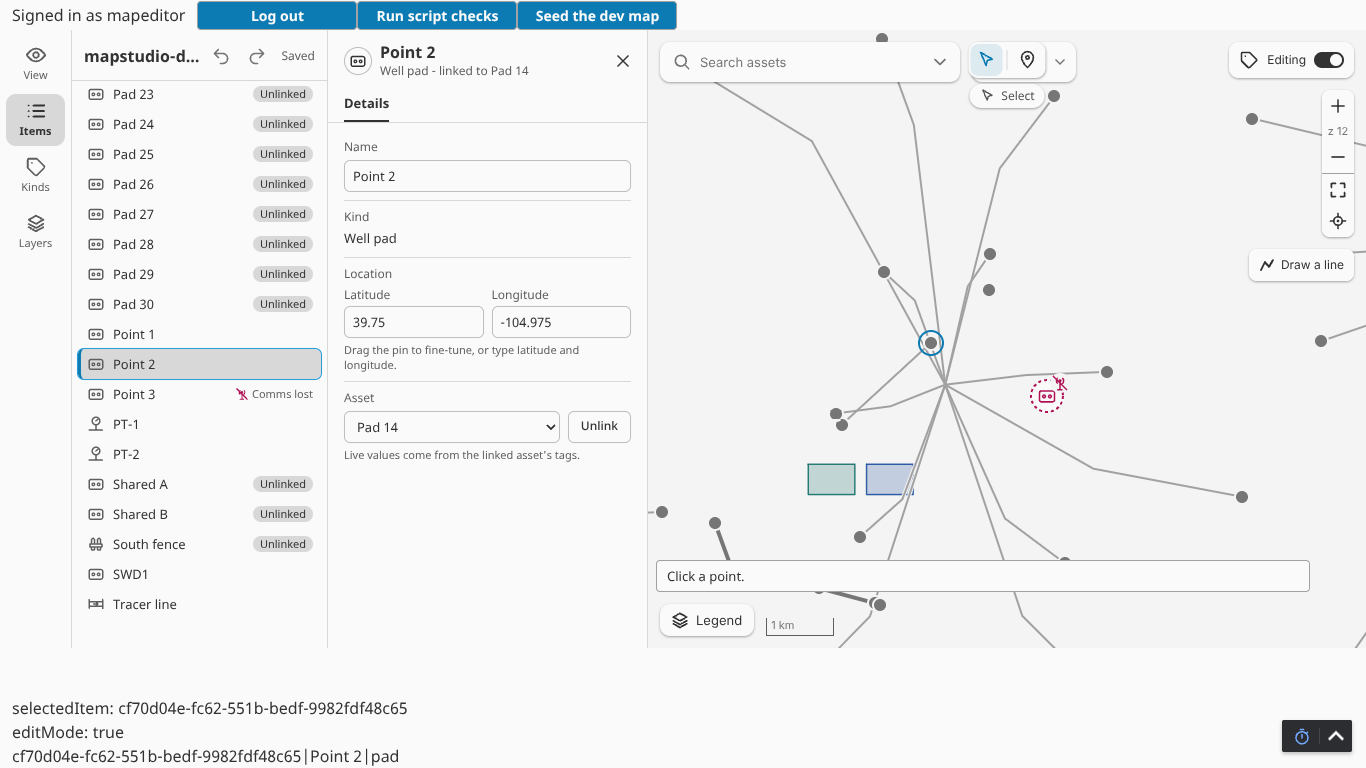
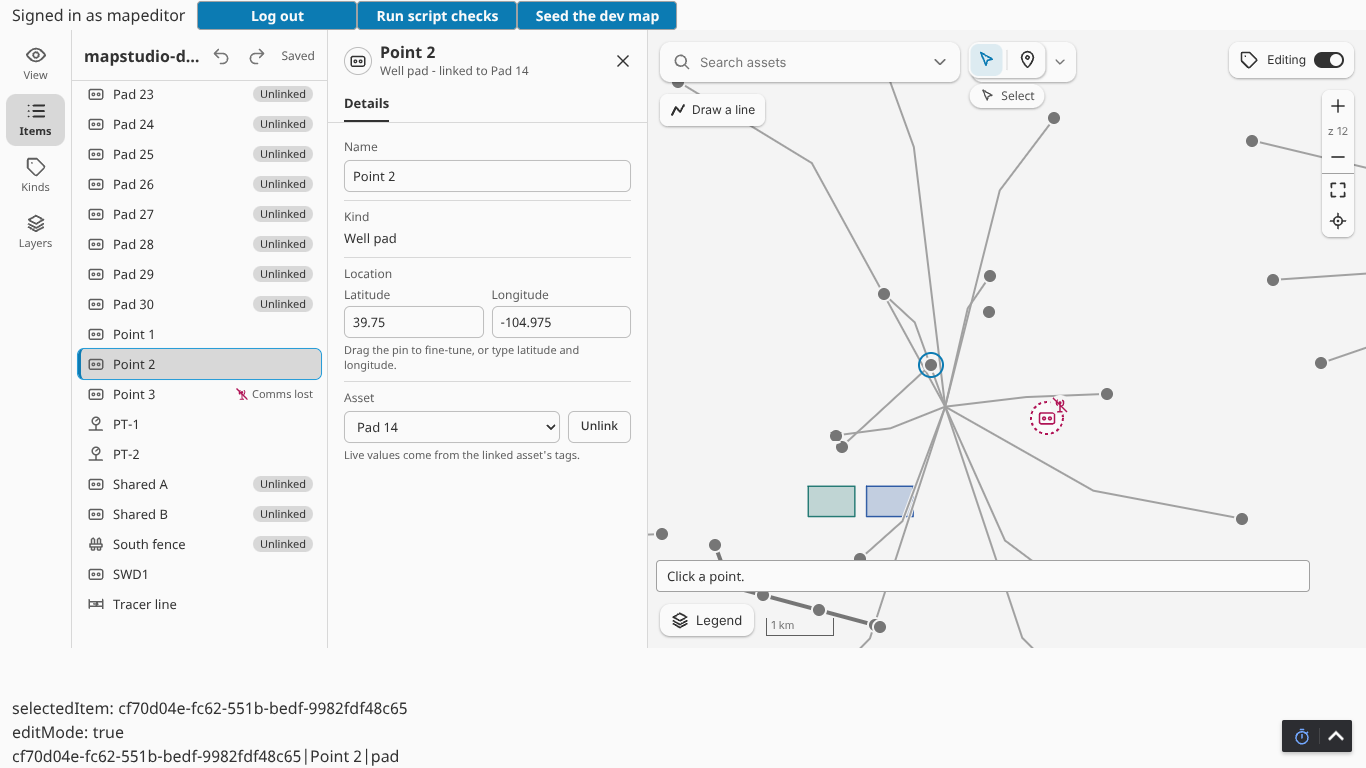
Epic 4 entry 2: the plan's results and the final renders
The plan's tasks are ticked and its verification carries the results:
the type check and 38 Jest suites, the clean build, the version check and
its test, the whole e2e suite green on a fresh stack (122 passed, 7
skipped, 27.9 minutes) after three runs that each found one thing the
notes record, the bundle size and what stays unverified. The four studio
renders at 1366 px are the final build's, with the spike's toggle under
the search row.

Claude-Session: https://claude.ai/code/session_01F9eVq2qqbKx1YxrgoxuWT6

diff --git a/_bmad-output/initiative-flowmap/tickets/epic-editing/tickets/story-tracer-edit-mode-s-docked-studio-one-pad-added-linked-undone-plan.md b/_bmad-output/initiative-flowmap/tickets/epic-editing/tickets/story-tracer-edit-mode-s-docked-studio-one-pad-added-linked-undone-plan.md
@@ -123,9 +123,9 @@ The studio surfaces are React components rendered by `MapStudio.render` beside t
 
 **Results (implementer, 2026-11-04, the cloud container, Ignition 8.3.10, compose project `ms-2a5e1993` on port 9088, fresh volumes for the final runs):**
 - `cd web && npx tsc --noEmit && npx jest`: no type error; 38 suites, 325 tests pass (entry 1's 36 suites and 305 tests, plus `undoStack.test.ts` with 12, `itemList.test.ts` with 2, and the new cases of `studio.test.ts` and `save.test.ts`).
-- `JAVA_HOME=/usr/lib/jvm/java-17-openjdk-amd64 ./gradlew clean build`: RESULT_GRADLE
-- `bash scripts/ci/check-contract-versions.sh`: OK (contract 0.4.0, setup schema 1, map store schema 2). `scripts/ci/test-contract-versions.sh`: RESULT_VERSIONS_TEST
-- `ops/up.sh --fresh` then `cd e2e && PW_CHROMIUM_PATH=/opt/pw-browsers/chromium npm test`: RESULT_E2E
+- `JAVA_HOME=/usr/lib/jvm/java-17-openjdk-amd64 ./gradlew clean build`: BUILD SUCCESSFUL in 58 s offline, every Java test (the descriptor's event and the props schema in `MapStudioComponentTest` among them) and the Jest run (38 suites, 325 tests); `ops/up.sh --fresh` built it the same way for every stack of this entry.
+- `bash scripts/ci/check-contract-versions.sh`: OK (contract 0.4.0, setup schema 1, map store schema 2). `scripts/ci/test-contract-versions.sh`: OK (the packages at 0.4.0, see the note above; it ran red before that bump).
+- `ops/up.sh --fresh` then `cd e2e && PW_CHROMIUM_PATH=/opt/pw-browsers/chromium npm test`: the whole suite green on the final code: 129 tests, 122 passed, 7 skipped, 0 failed, in 27.9 minutes (the fourth whole-suite run; `studio.spec.mjs`'s four tests among them, no edit to an existing expectation but `tracer.spec.mjs`'s width check, and the review 390 px flake of deferred-work.md did not show). The three runs before it, each on a fresh stack with the code of its time, found what the notes above record: run 1 (108 passed, 12 failed, 41.6 min) the two `popup.spec.mjs` editor tests under the docked panel plus ten editor sign-in timeouts after the trial expired at 06:49:46; run 2 (120 passed, 2 failed, 28.5 min) `studio.spec.mjs`'s marker click at zoom 12 landing on the Tracer line (the spec now clicks p1 at zoom 15) and `unsaved.spec.mjs` at 390 px with the toggle under its second vertex (the toggle moved top-left); run 3 was stopped at 49 tests once `linepopup.spec.mjs` met a "Conflict line" that a targeted `unsaved.spec.mjs` run had left under the Tracer line's midpoint (in the suite's own order `unsaved` runs after `linepopup`), and the stack was wiped before run 4.
 - `e2e/tests/studio.spec.mjs` alone: 4 tests pass in 1.2 minutes (the switch and the layout, the viewer, the pad's tracer with undo and redo, the page following the selection), on three fresh stacks in a row.
 - The bundle: `MapStudio.js` 1,388,341 bytes and `MapStudio.css` 119,145 (entry 1: 1,351,327 and 108,962; the studio's surfaces, +2.7 percent; no limit in this entry).
 - The renders for the owner: `docs/screenshots/mapstudio-studio-1366.png` (Edit mode, the rail, the list, the toolbar, the switch), `mapstudio-studio-view-1366.png` (the switch off), `mapstudio-studio-details-1366.png` (a row's Details), `mapstudio-studio-pad-1366.png` (P31 placed, named, linked, with the pill and the page's labels), written by the spec with `shot`.
